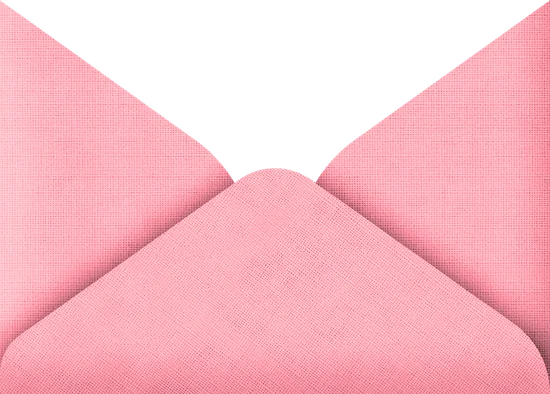
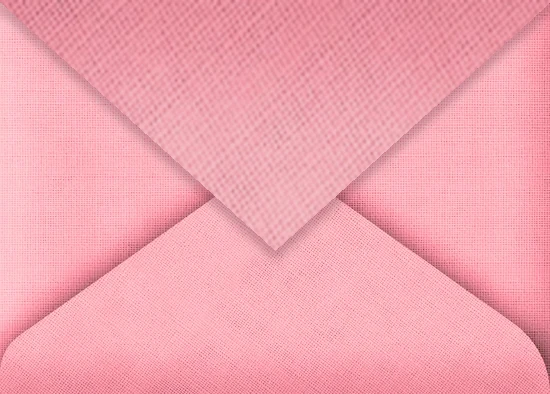
fix(era-pink): solapa del sobre compuesta + hero legible como la referencia
- sobre-rosa.webp: la pieza venia SIN la solapa superior (hueco transparente en V); se compuso la solapa cerrada con la textura lino del propio sobre y sombra suave en los bordes. El sello con monograma se movio a la punta de la solapa (56%)
- Hero rehecho como el Canva original: foto en bloque (62vh) con desvanecido inferior al fondo, y el texto (tiara chica, invitan, QUINCEANERA, nombre en script oscuro, fecha, PLAY ME) va SOBRE el desvanecido, legible, ya no sobre el vestido
- Demo: foto de portada = pose sentada (la de la referencia), no la de frente

Changed region(s): [[0.0, 0.0, 1.0, 0.6701]]

diff --git a/src/components/templates/QuinceEraPinkTemplate.tsx b/src/components/templates/QuinceEraPinkTemplate.tsx
@@ -472,7 +472,7 @@ export default function QuinceEraPinkTemplate({
                 />
                 {/* Sello de cera con monograma */}
                 <div
-                  className={`absolute left-1/2 top-[36%] -translate-x-1/2 -translate-y-1/2 w-20 h-20 sm:w-24 sm:h-24 transition-transform duration-300 ${
+                  className={`absolute left-1/2 top-[56%] -translate-x-1/2 -translate-y-1/2 w-20 h-20 sm:w-24 sm:h-24 transition-transform duration-300 ${
                     isLetterOut ? "scale-125 opacity-0" : "scale-100 opacity-100"
                   }`}
                 >
@@ -579,52 +579,54 @@ export default function QuinceEraPinkTemplate({
         {/* SECCIÓN 1: HERO A FOTO COMPLETA                         */}
         {/* ======================================================= */}
         <section className="relative text-center">
-          <div className="relative h-[88vh] min-h-[540px] overflow-hidden">
+          <div className="relative h-[62vh] min-h-[430px] overflow-hidden">
             {/* eslint-disable-next-line @next/next/no-img-element */}
             <img src={data.fotoPortadaUrl} alt={data.titulo} className="absolute inset-0 w-full h-full object-cover object-top" />
-            <div className="absolute inset-0 bg-gradient-to-b from-[#F9E7EA]/55 via-transparent to-[#F9E7EA]" />
-            <div className="relative z-10 flex h-full flex-col items-center justify-end pb-10 px-6">
-              {/* eslint-disable-next-line @next/next/no-img-element */}
-              <img src={ERA_ASSETS.tiara} alt="" className="w-36 sm:w-44 h-auto mb-1 drop-shadow-md" />
-              {familiaAnfitriona && (
-                <p className="font-serif-roman text-[11px] sm:text-xs tracking-[0.3em] uppercase text-[#3E2A2E] font-bold">
-                  {familiaAnfitriona}{" "}
-                  {isEn ? "invite you to celebrate the" : "te invita a celebrar la"}
-                </p>
-              )}
-              <h1 className="font-serif-roman text-5xl sm:text-7xl tracking-[0.06em] uppercase text-[#3E2A2E] font-bold leading-none mt-1">
-                {isEn ? "Quinceañera" : "Quinceañera"}
-              </h1>
-              <p className="font-serif-roman text-[11px] sm:text-xs tracking-[0.4em] uppercase text-[#3E2A2E] mt-2">
-                {isEn ? "of their daughter" : "de su hija"}
-              </p>
-              <p className="font-script text-6xl sm:text-7xl text-[#A63D57] leading-tight mt-1">{data.titulo}</p>
+            <div className="absolute inset-0 bg-gradient-to-b from-transparent via-[#F9E7EA]/30 to-[#F9E7EA]" />
+          </div>
 
-              <div className="mt-4">
-                <p className="font-serif-roman text-xs tracking-[0.5em] uppercase text-[#3E2A2E] font-bold">{eventMonth}</p>
-                <div className="flex items-center justify-center gap-3 sm:gap-4 mt-1">
-                  <span className="font-serif-roman text-xs sm:text-sm tracking-[0.25em] uppercase text-[#3E2A2E] font-semibold">{eventWeekday}</span>
-                  <span className="w-8 sm:w-12 h-px bg-[#A63D57]/70" />
-                  <span className="font-serif-roman text-6xl sm:text-7xl font-bold text-[#3E2A2E] leading-none">{eventDay}</span>
-                  <span className="w-8 sm:w-12 h-px bg-[#A63D57]/70" />
-                  <span className="font-serif-roman text-xs sm:text-sm tracking-[0.25em] uppercase text-[#3E2A2E] font-semibold">
-                    {isEn ? "At" : "A las"} {eventTime}
-                  </span>
-                </div>
+          {/* Texto sobre el desvanecido inferior de la foto (legible, como la referencia) */}
+          <div className="relative z-10 px-6 -mt-[15vh]">
+            {/* eslint-disable-next-line @next/next/no-img-element */}
+            <img src={ERA_ASSETS.tiara} alt="" className="w-16 sm:w-20 h-auto mx-auto mb-1 drop-shadow-sm" />
+            {familiaAnfitriona && (
+              <p className="font-serif-roman text-[11px] sm:text-xs tracking-[0.3em] uppercase text-[#3E2A2E] font-bold">
+                {familiaAnfitriona}{" "}
+                {isEn ? "invite you to celebrate the" : "te invita a celebrar la"}
+              </p>
+            )}
+            <h1 className="font-serif-roman text-4xl sm:text-6xl tracking-[0.1em] uppercase text-[#3E2A2E] font-bold leading-none mt-2">
+              {isEn ? "Quinceañera" : "Quinceañera"}
+            </h1>
+            <p className="font-serif-roman text-[11px] sm:text-xs tracking-[0.4em] uppercase text-[#3E2A2E] mt-2">
+              {isEn ? "of their daughter" : "de su hija"}
+            </p>
+            <p className="font-script text-6xl sm:text-7xl text-[#3E2A2E] leading-tight mt-1">{data.titulo}</p>
+
+            <div className="mt-4">
+              <p className="font-serif-roman text-xs tracking-[0.5em] uppercase text-[#3E2A2E] font-bold">{eventMonth}</p>
+              <div className="flex items-center justify-center gap-3 sm:gap-4 mt-1">
+                <span className="font-serif-roman text-xs sm:text-sm tracking-[0.25em] uppercase text-[#3E2A2E] font-semibold">{eventWeekday}</span>
+                <span className="w-8 sm:w-12 h-px bg-[#A63D57]/70" />
+                <span className="font-serif-roman text-6xl sm:text-7xl font-bold text-[#3E2A2E] leading-none">{eventDay}</span>
+                <span className="w-8 sm:w-12 h-px bg-[#A63D57]/70" />
+                <span className="font-serif-roman text-xs sm:text-sm tracking-[0.25em] uppercase text-[#3E2A2E] font-semibold">
+                  {isEn ? "At" : "A las"} {eventTime}
+                </span>
               </div>
-
-              <button
-                type="button"
-                onClick={toggleMusic}
-                className="mt-6 inline-flex items-center gap-2.5 rounded-full border-2 border-dashed border-[#C4667D] bg-white/75 backdrop-blur px-7 py-3 font-serif-roman text-xs tracking-[0.3em] uppercase font-bold text-[#A63D57] shadow-lg transition-transform hover:scale-105 active:scale-95 cursor-pointer"
-              >
-                {isPlaying ? <Pause className="w-4 h-4" /> : <Music className="w-4 h-4" />}
-                {isEn ? "Play me" : "Escuchar"}
-              </button>
-              <p className="text-[10px] font-serif-roman tracking-[0.2em] uppercase text-[#3E2A2E]/70 font-semibold mt-2">
-                {data.musicaTitulo || (isEn ? "My Song" : "Mi Canción")}
-              </p>
             </div>
+
+            <button
+              type="button"
+              onClick={toggleMusic}
+              className="mt-6 inline-flex items-center gap-2.5 rounded-full border-2 border-dashed border-[#C4667D] bg-white/75 backdrop-blur px-7 py-3 font-serif-roman text-xs tracking-[0.3em] uppercase font-bold text-[#A63D57] shadow-lg transition-transform hover:scale-105 active:scale-95 cursor-pointer"
+            >
+              {isPlaying ? <Pause className="w-4 h-4" /> : <Music className="w-4 h-4" />}
+              {isEn ? "Play me" : "Escuchar"}
+            </button>
+            <p className="text-[10px] font-serif-roman tracking-[0.2em] uppercase text-[#3E2A2E]/70 font-semibold mt-2">
+              {data.musicaTitulo || (isEn ? "My Song" : "Mi Canción")}
+            </p>
           </div>
 
           {/* Frase con foto */}

diff --git a/src/lib/demo-data.ts b/src/lib/demo-data.ts
@@ -433,7 +433,7 @@ export const DEMO_ERA: InvitationData = {
   frasePersonalizada: "I'm excited to share this special day with you.",
   fechaEvento: new Date("2027-12-18T14:00:00-08:00"),
   fechaTextoPersonalizada: "SATURDAY, DECEMBER 18, 2027 AT 2 PM",
-  fotoPortadaUrl: "/assets/template-era-pink/foto-frente.webp",
+  fotoPortadaUrl: "/assets/template-era-pink/foto-sentada.webp",
   fotoInfanciaUrl: "/assets/template-era-pink/foto-retrato.webp",
   fotoActualUrl: "/assets/template-era-pink/foto-espalda.webp",
   fotoCierreUrl: "/assets/template-era-pink/foto-sentada.webp",
